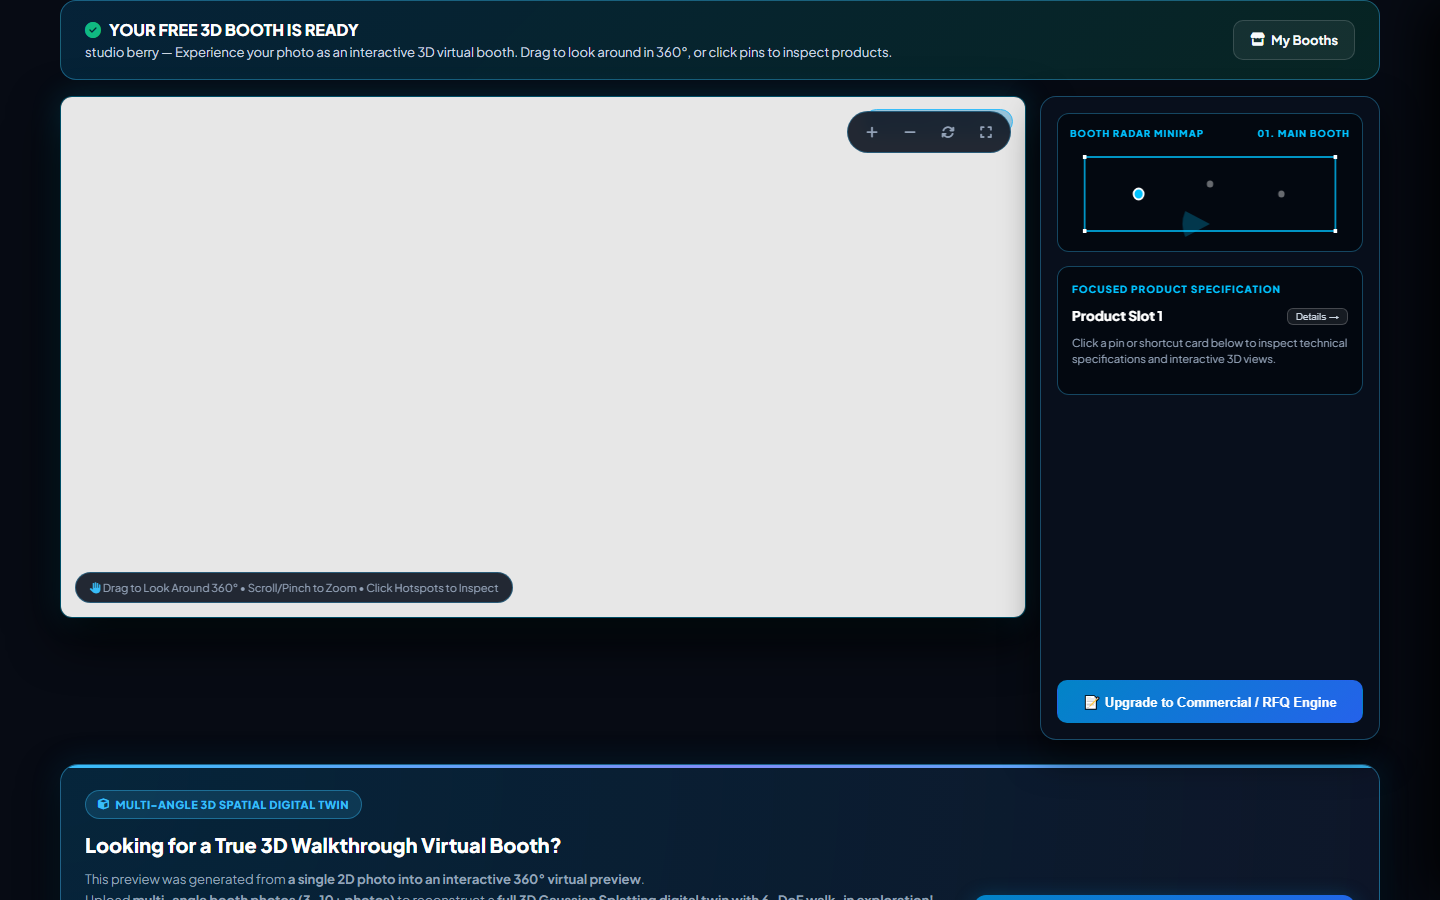
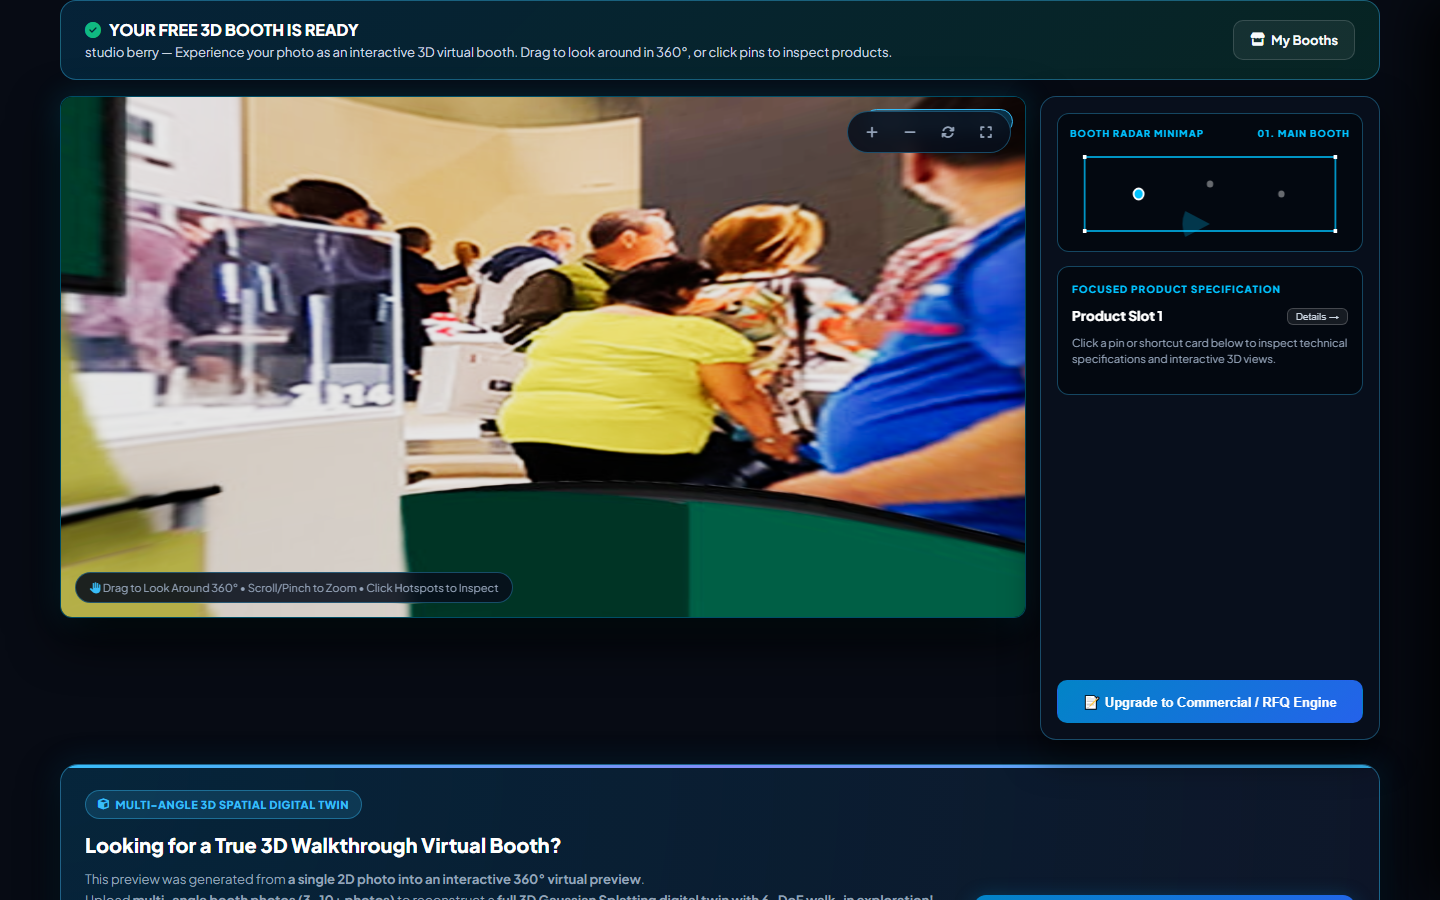
fix(p3.13): allow Internal QA bypass in savePinpoints bulk endpoint

diff --git a/virtual-tradeshow-commercial-v1/_clean_deploy/server/db.js b/virtual-tradeshow-commercial-v1/_clean_deploy/server/db.js
@@ -9537,9 +9537,10 @@ return event;
         (project.contactEmail && a.emailNormalized === this.normalizeEmail(project.contactEmail))
       ) || { planCode: 'FREE_BOOTH', entitlement: 'FREE BOOTH' };
 
+      const isDev = this.isInternalDev ? this.isInternalDev(token, account) : (token === 'internal_dev_pass' || token === 'goodkie_internal_key' || (account && (account.planCode === 'INTERNAL_FULL_ACCESS' || account.emailNormalized === 'goodkie.com@gmail.com')));
       const isPilot = account.isPilot || account.billingState === 'PILOT_NOT_BILLED' || project.isPilot;
-      const effectiveEntitlement = isPilot ? (account.entitlement || 'BUSINESS') : (account.planCode || account.entitlement || 'FREE_BOOTH');
-      const isFree = (effectiveEntitlement === 'FREE_BOOTH' || effectiveEntitlement === 'FREE') && !isPilot;
+      const effectiveEntitlement = isDev ? 'INTERNAL_FULL_ACCESS' : (isPilot ? (account.entitlement || 'BUSINESS') : (account.planCode || account.entitlement || 'FREE_BOOTH'));
+      const isFree = (effectiveEntitlement === 'FREE_BOOTH' || effectiveEntitlement === 'FREE') && !isPilot && !isDev;
 
       if (isFree) {
         const err = new Error('Upgrade required to edit commercial pins.');

diff --git a/virtual-tradeshow-commercial-v1/_railway_deploy/server/db.js b/virtual-tradeshow-commercial-v1/_railway_deploy/server/db.js
@@ -9537,9 +9537,10 @@ return event;
         (project.contactEmail && a.emailNormalized === this.normalizeEmail(project.contactEmail))
       ) || { planCode: 'FREE_BOOTH', entitlement: 'FREE BOOTH' };
 
+      const isDev = this.isInternalDev ? this.isInternalDev(token, account) : (token === 'internal_dev_pass' || token === 'goodkie_internal_key' || (account && (account.planCode === 'INTERNAL_FULL_ACCESS' || account.emailNormalized === 'goodkie.com@gmail.com')));
       const isPilot = account.isPilot || account.billingState === 'PILOT_NOT_BILLED' || project.isPilot;
-      const effectiveEntitlement = isPilot ? (account.entitlement || 'BUSINESS') : (account.planCode || account.entitlement || 'FREE_BOOTH');
-      const isFree = (effectiveEntitlement === 'FREE_BOOTH' || effectiveEntitlement === 'FREE') && !isPilot;
+      const effectiveEntitlement = isDev ? 'INTERNAL_FULL_ACCESS' : (isPilot ? (account.entitlement || 'BUSINESS') : (account.planCode || account.entitlement || 'FREE_BOOTH'));
+      const isFree = (effectiveEntitlement === 'FREE_BOOTH' || effectiveEntitlement === 'FREE') && !isPilot && !isDev;
 
       if (isFree) {
         const err = new Error('Upgrade required to edit commercial pins.');

diff --git a/virtual-tradeshow-commercial-v1/app_build/server/db.js b/virtual-tradeshow-commercial-v1/app_build/server/db.js
@@ -9537,9 +9537,10 @@ return event;
         (project.contactEmail && a.emailNormalized === this.normalizeEmail(project.contactEmail))
       ) || { planCode: 'FREE_BOOTH', entitlement: 'FREE BOOTH' };
 
+      const isDev = this.isInternalDev ? this.isInternalDev(token, account) : (token === 'internal_dev_pass' || token === 'goodkie_internal_key' || (account && (account.planCode === 'INTERNAL_FULL_ACCESS' || account.emailNormalized === 'goodkie.com@gmail.com')));
       const isPilot = account.isPilot || account.billingState === 'PILOT_NOT_BILLED' || project.isPilot;
-      const effectiveEntitlement = isPilot ? (account.entitlement || 'BUSINESS') : (account.planCode || account.entitlement || 'FREE_BOOTH');
-      const isFree = (effectiveEntitlement === 'FREE_BOOTH' || effectiveEntitlement === 'FREE') && !isPilot;
+      const effectiveEntitlement = isDev ? 'INTERNAL_FULL_ACCESS' : (isPilot ? (account.entitlement || 'BUSINESS') : (account.planCode || account.entitlement || 'FREE_BOOTH'));
+      const isFree = (effectiveEntitlement === 'FREE_BOOTH' || effectiveEntitlement === 'FREE') && !isPilot && !isDev;
 
       if (isFree) {
         const err = new Error('Upgrade required to edit commercial pins.');

diff --git a/virtual-tradeshow-commercial-v1/scripts/track_deployment.js b/virtual-tradeshow-commercial-v1/scripts/track_deployment.js
@@ -1,6 +1,6 @@
 const https = require('https');
 const token = '8bed6af7-cd5d-4d2b-a652-acfba822a9d7';
-const deploymentId = '9e96b3c9-b0d4-4879-a130-1085e26bac2b';
+const deploymentId = '9a77cab2-27e7-4322-9013-7e9bf5c95e00';
 
 let count = 0;
 const max = 40;
